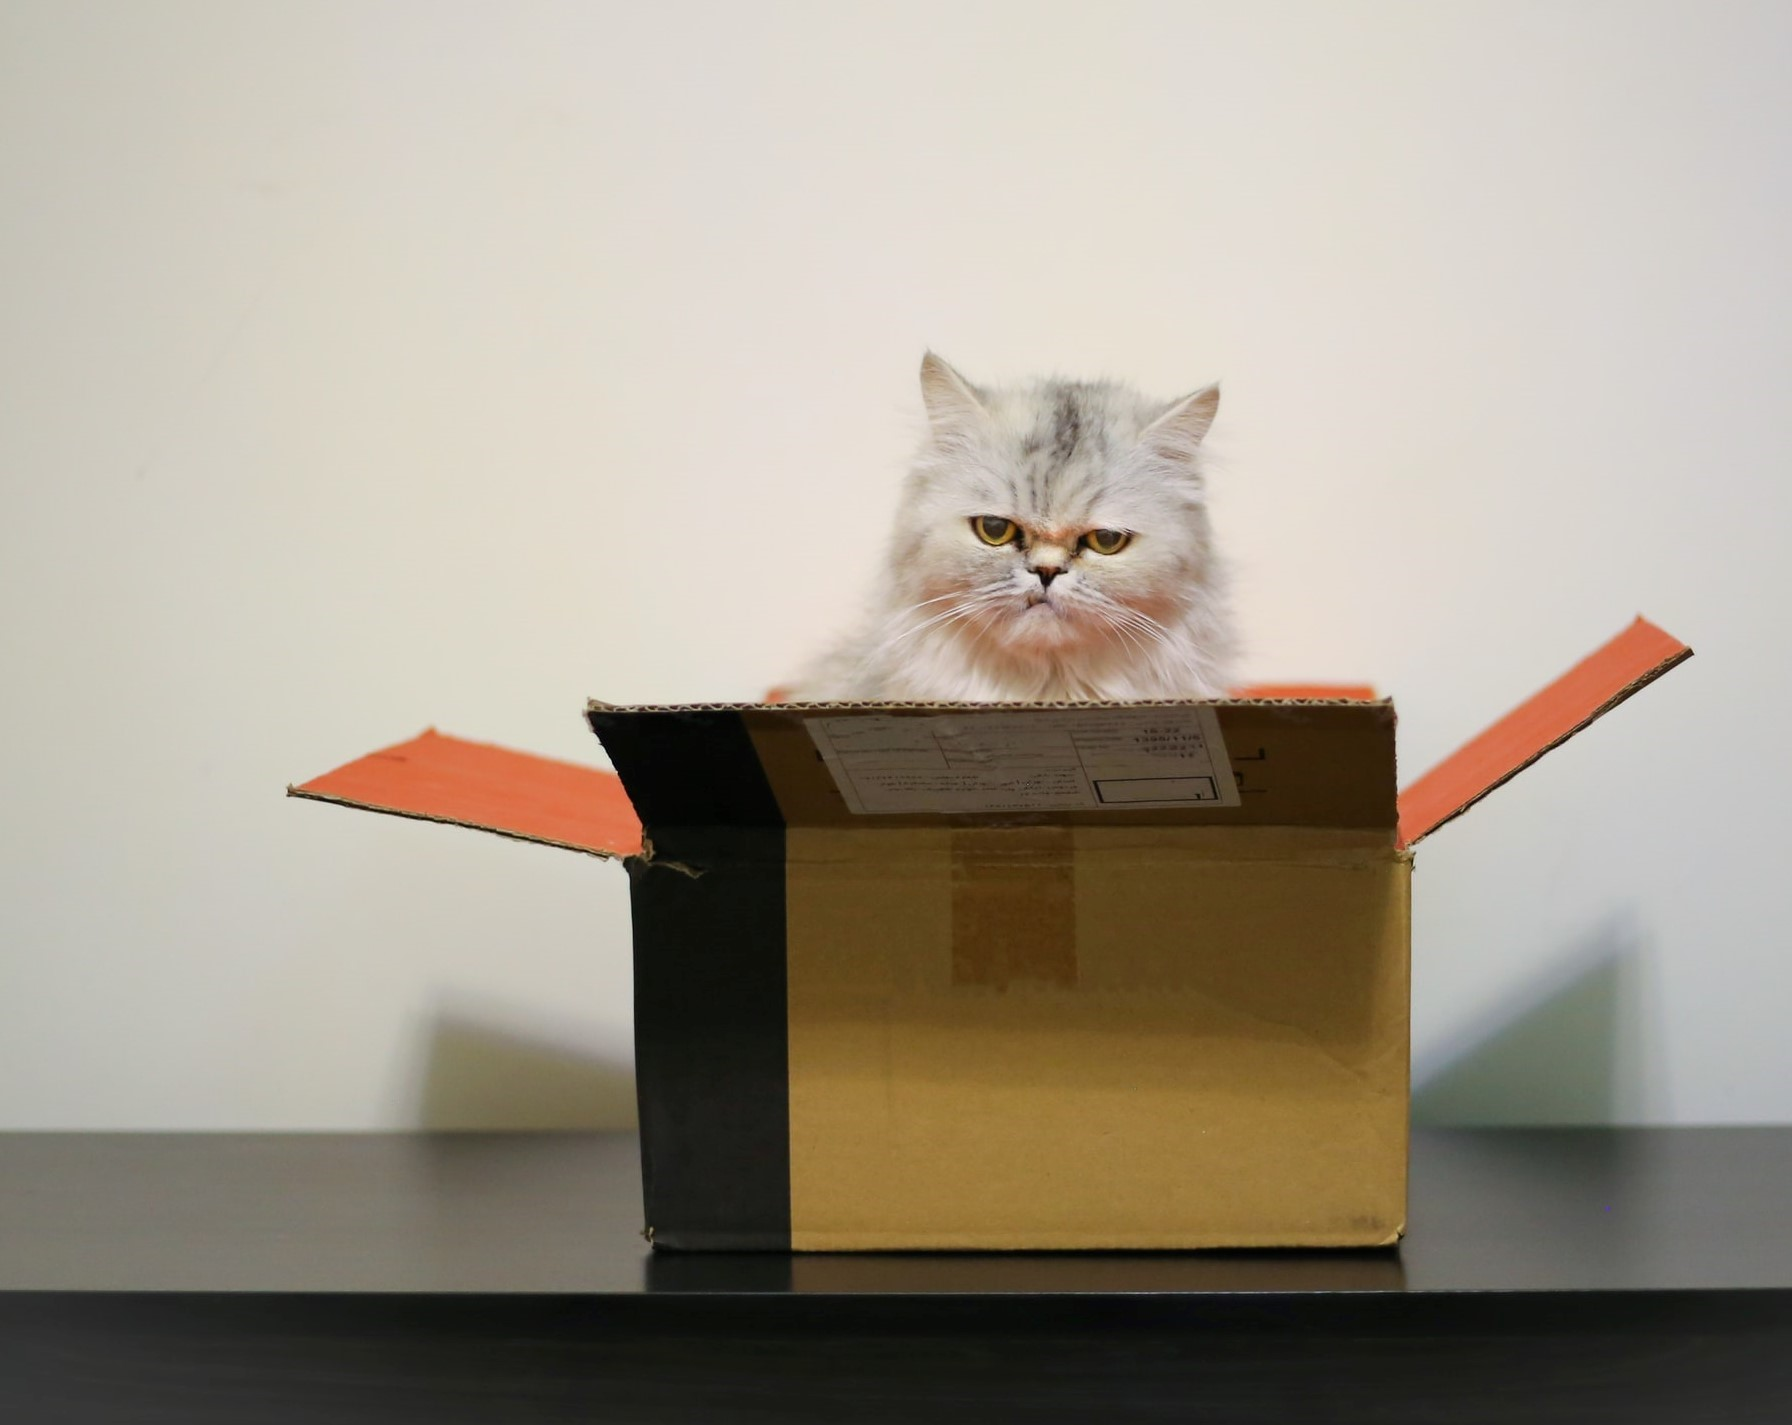
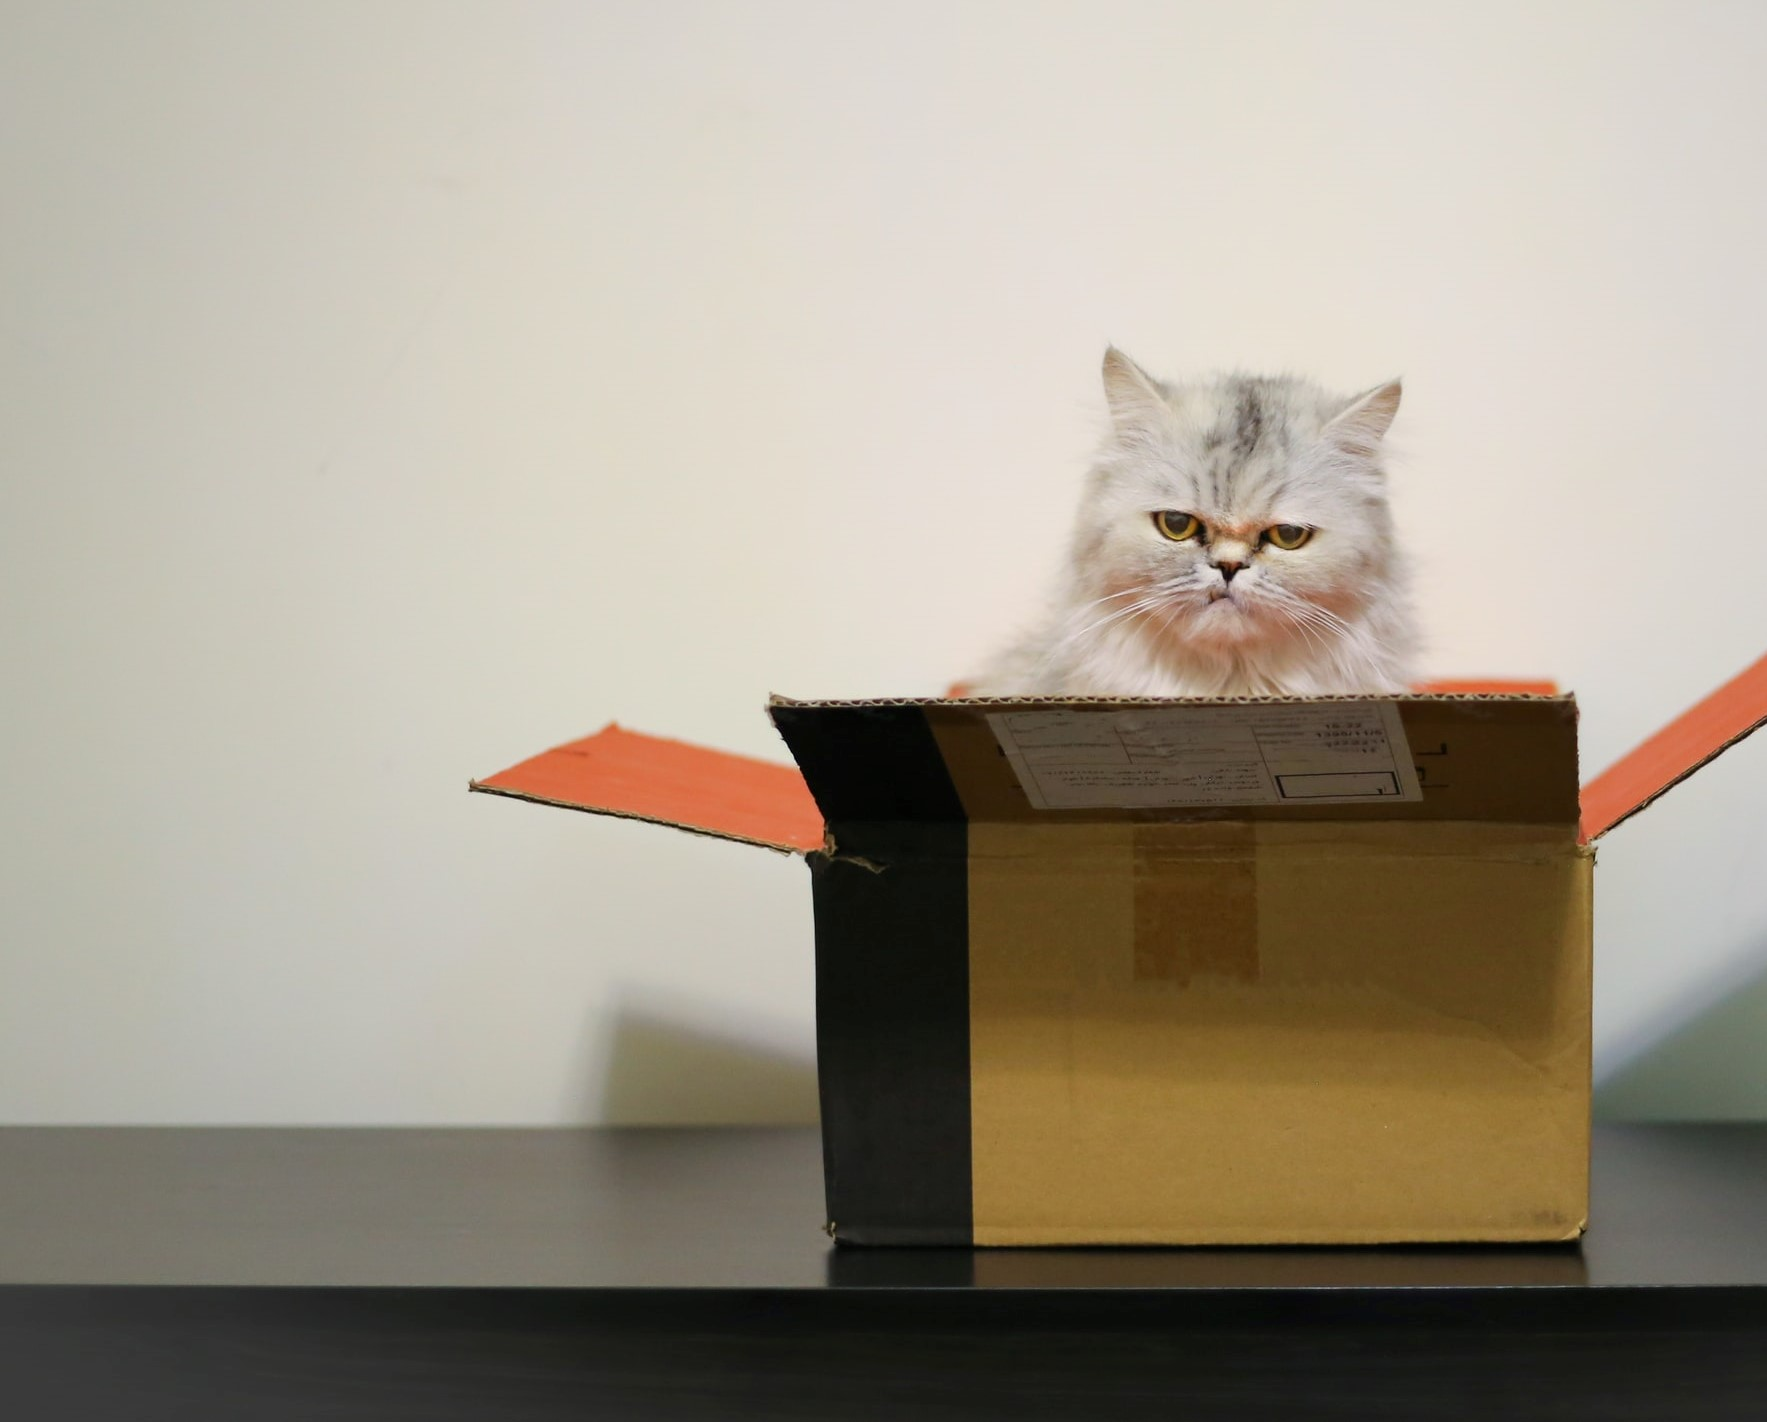
Added modile breakpoints and styling

diff --git a/ClientApp/src/app/shipment/pages/guest-shipment/guest-shipment.page.html b/ClientApp/src/app/shipment/pages/guest-shipment/guest-shipment.page.html
@@ -1,6 +1,7 @@
+<h1>New Boxinator Order</h1>
 <mat-form class="form form-control" [formGroup]="guestShipmentForm">
-
-  <p>Please note that in order to register as a Boxinator user You need to login with a <strong>gmail account</strong>.</p>
+  <p>Please note that in order to register as a Boxinator user You need to login with a <strong>Gmail account</strong>.
+  </p>
   <!-- Email -->
   <div>
     <mat-form-field class="form-field" appearance="outline">
@@ -62,8 +63,10 @@
     <mat-form-field class="form-field" appearance="outline">
       <mat-label>Destination address</mat-label>
       <input matInput formControlName="destinationAddress" type="text" placeholder="Address">
-      <mat-error *ngIf="(destinationAddress?.dirty || destinationAddress?.touched) && destinationAddress?.errors?.required " class="alert">
-          Address is required
+      <mat-error
+        *ngIf="(destinationAddress?.dirty || destinationAddress?.touched) && destinationAddress?.errors?.required "
+        class="alert">
+        Address is required
       </mat-error>
     </mat-form-field>
   </div>
@@ -73,12 +76,15 @@
     <mat-form-field class="form-field" appearance="outline">
       <mat-label>Destination postal code</mat-label>
       <input matInput formControlName="destinationZipCode" type="text" placeholder="Postal code">
-      <mat-error *ngIf="(destinationZipCode?.dirty || destinationZipCode?.touched) && destinationZipCode?.errors?.minlength" class="alert">
-          Postal code is too short
+      <mat-error
+        *ngIf="(destinationZipCode?.dirty || destinationZipCode?.touched) && destinationZipCode?.errors?.minlength"
+        class="alert">
+        Postal code is too short
       </mat-error>
-        <mat-error *ngIf="(destinationZipCode?.dirty || destinationZipCode?.touched) && destinationZipCode?.errors?.pattern">
-          Postal code can only contain numbers
-        </mat-error>
+      <mat-error
+        *ngIf="(destinationZipCode?.dirty || destinationZipCode?.touched) && destinationZipCode?.errors?.pattern">
+        Postal code can only contain numbers
+      </mat-error>
     </mat-form-field>
   </div>
 
@@ -86,14 +92,14 @@
   <app-box-form (formChange)="boxFormChanged($event)"></app-box-form>
 
   <button mat-raised-button color="primary" type="submit" (click)="createGuestShipment()" [disabled]="
-guestShipmentForm.controls['senderEmail'].invalid ||
-guestShipmentForm.controls['receiverFirstName'].invalid ||
-guestShipmentForm.controls['receiverLastName'].invalid ||
-guestShipmentForm.controls['destinationCountryId'].invalid ||
-guestShipmentForm.controls['destinationAddress'].invalid ||
-guestShipmentForm.controls['destinationZipCode'].invalid ||
-boxFormIsEmpty
-">
+  guestShipmentForm.controls['senderEmail'].invalid ||
+  guestShipmentForm.controls['receiverFirstName'].invalid ||
+  guestShipmentForm.controls['receiverLastName'].invalid ||
+  guestShipmentForm.controls['destinationCountryId'].invalid ||
+  guestShipmentForm.controls['destinationAddress'].invalid ||
+  guestShipmentForm.controls['destinationZipCode'].invalid ||
+  boxFormIsEmpty
+  ">
     Ship
   </button>
 

diff --git a/ClientApp/src/app/login/pages/login/login.page.scss b/ClientApp/src/app/login/pages/login/login.page.scss
@@ -20,7 +20,6 @@
   }
 }
 
-
 #background {
   clip-path: polygon(64% 0, 100% 0, 100% 100%, 48% 100%);
   background-image: url("../../../../assets/images/boxinator-cat.jpg");
@@ -32,4 +31,29 @@
   position: absolute;
   top: 0;
   z-index: -1;
+}
+
+// Mobile view
+@media (max-width: 768px) {
+  .content {
+    top: 30%;
+    position: absolute;
+    h1 {
+      font-size: 3.2em;
+      line-height: 3rem;
+    }
+  }
+
+  #background {
+    padding: 0px !important;
+    clip-path: polygon(0 72%, 100% 62%, 100% 100%, 0% 100%);
+    background-image: url("../../../../assets/images/boxinator-cat-mobile.jpg");
+    background-repeat: no-repeat;
+    background-size: auto 40%;
+    left: 0;
+    background-position: center bottom;
+    height: 100%;
+    position: absolute;
+    z-index: -1;
+  }
 }

diff --git a/ClientApp/src/app/login/pages/register/register.page.scss b/ClientApp/src/app/login/pages/register/register.page.scss
@@ -1,11 +1,10 @@
 .form-field {
-  width: 90%;
+  width:100%;
   max-width: 300px;
 }
 button {
-  width: 90%;
+  width: 100%;
   max-width: 300px;
-  width: 300px;
   padding: 0.5rem 3rem;
 }
 
@@ -20,4 +19,10 @@ button {
   position: absolute;
   top: 0;
   z-index: -1;
+}
+
+@media (max-width: 768px) {
+  #background {
+    display: none;
+  }
 }

diff --git a/ClientApp/src/app/app.component.scss b/ClientApp/src/app/app.component.scss
@@ -15,3 +15,13 @@
   width: 15%;
   display: inline-flex;
 }
+
+@media (max-width: 768px) {
+  .container {
+    padding-bottom: 3rem;
+  }
+
+  .content {
+    padding: 1.5rem 2rem;
+  }
+}

diff --git a/ClientApp/src/app/shipment/pages/guest-shipment/guest-shipment.page.scss b/ClientApp/src/app/shipment/pages/guest-shipment/guest-shipment.page.scss
@@ -1,0 +1,9 @@
+.form-field {
+  width: 100%;
+  max-width: 300px;
+}
+button {
+  width: 100%;
+  max-width: 300px;
+  padding: 0.5rem;
+}

diff --git a/ClientApp/src/assets/styles/_variables.scss b/ClientApp/src/assets/styles/_variables.scss
@@ -1,2 +1,2 @@
 $primary-color: #DB6E45;
-$secondary-color: #503C93
+$secondary-color: #503C93;
